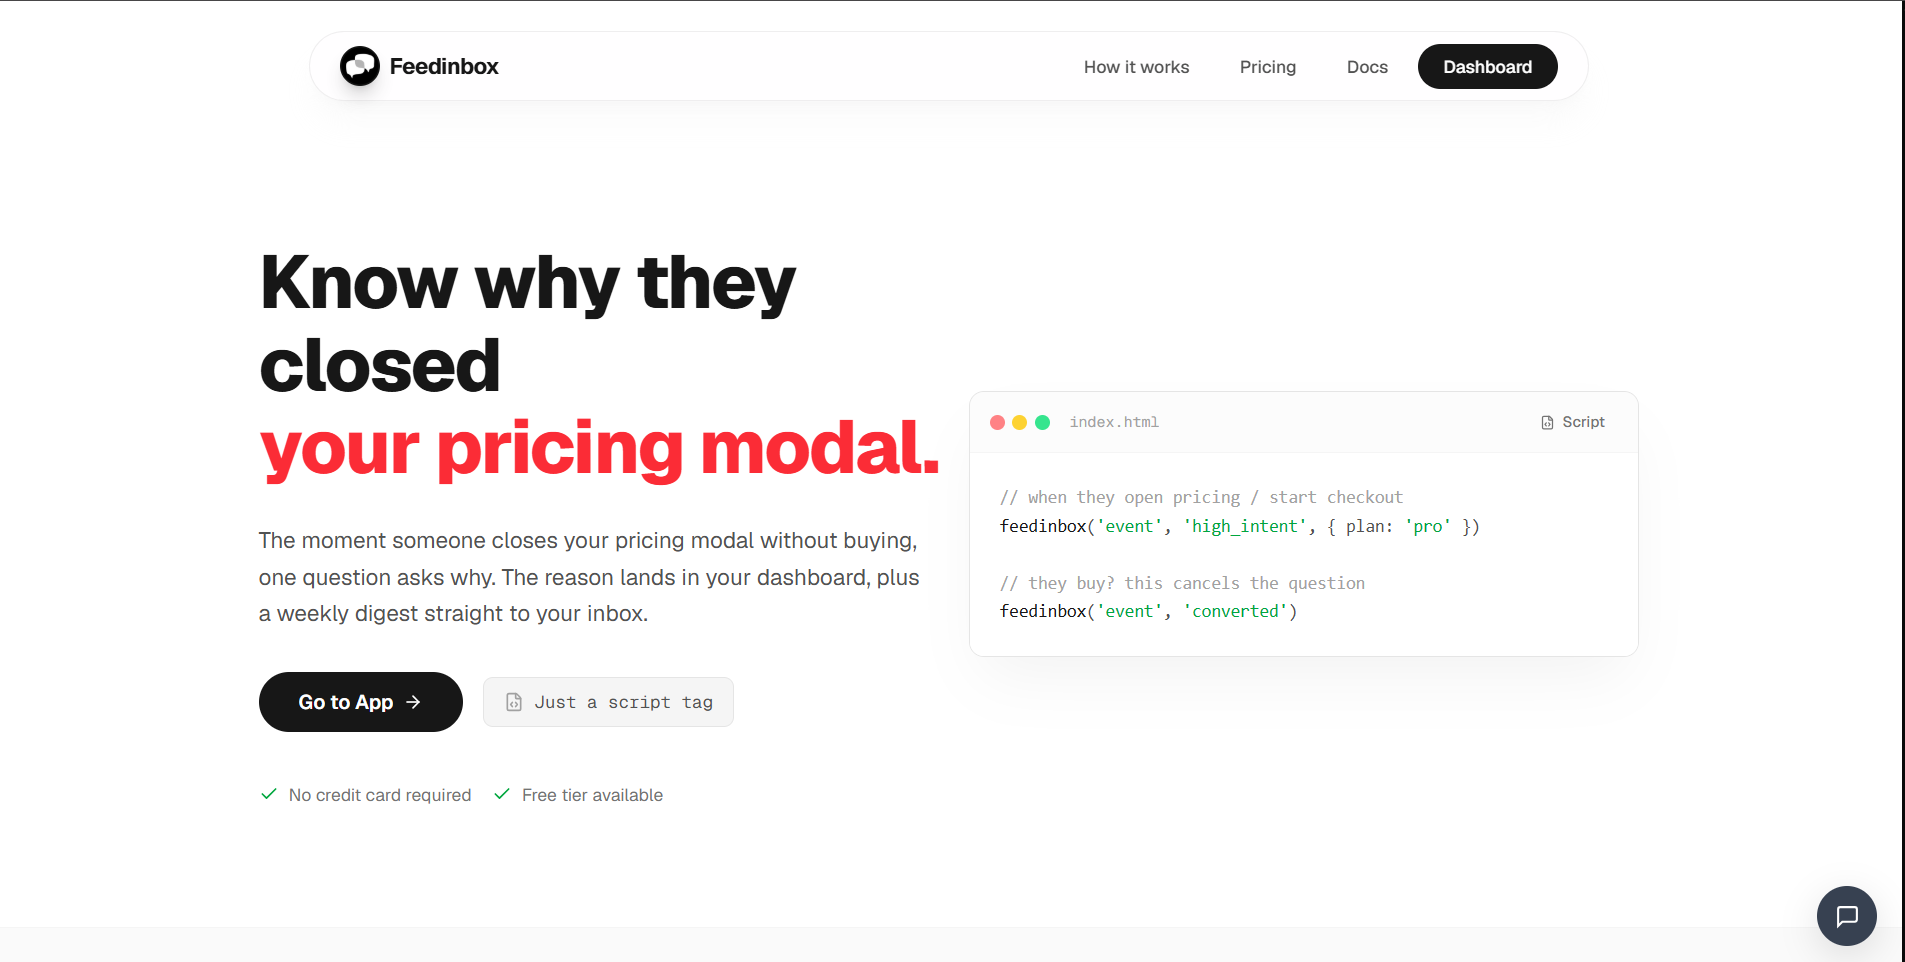
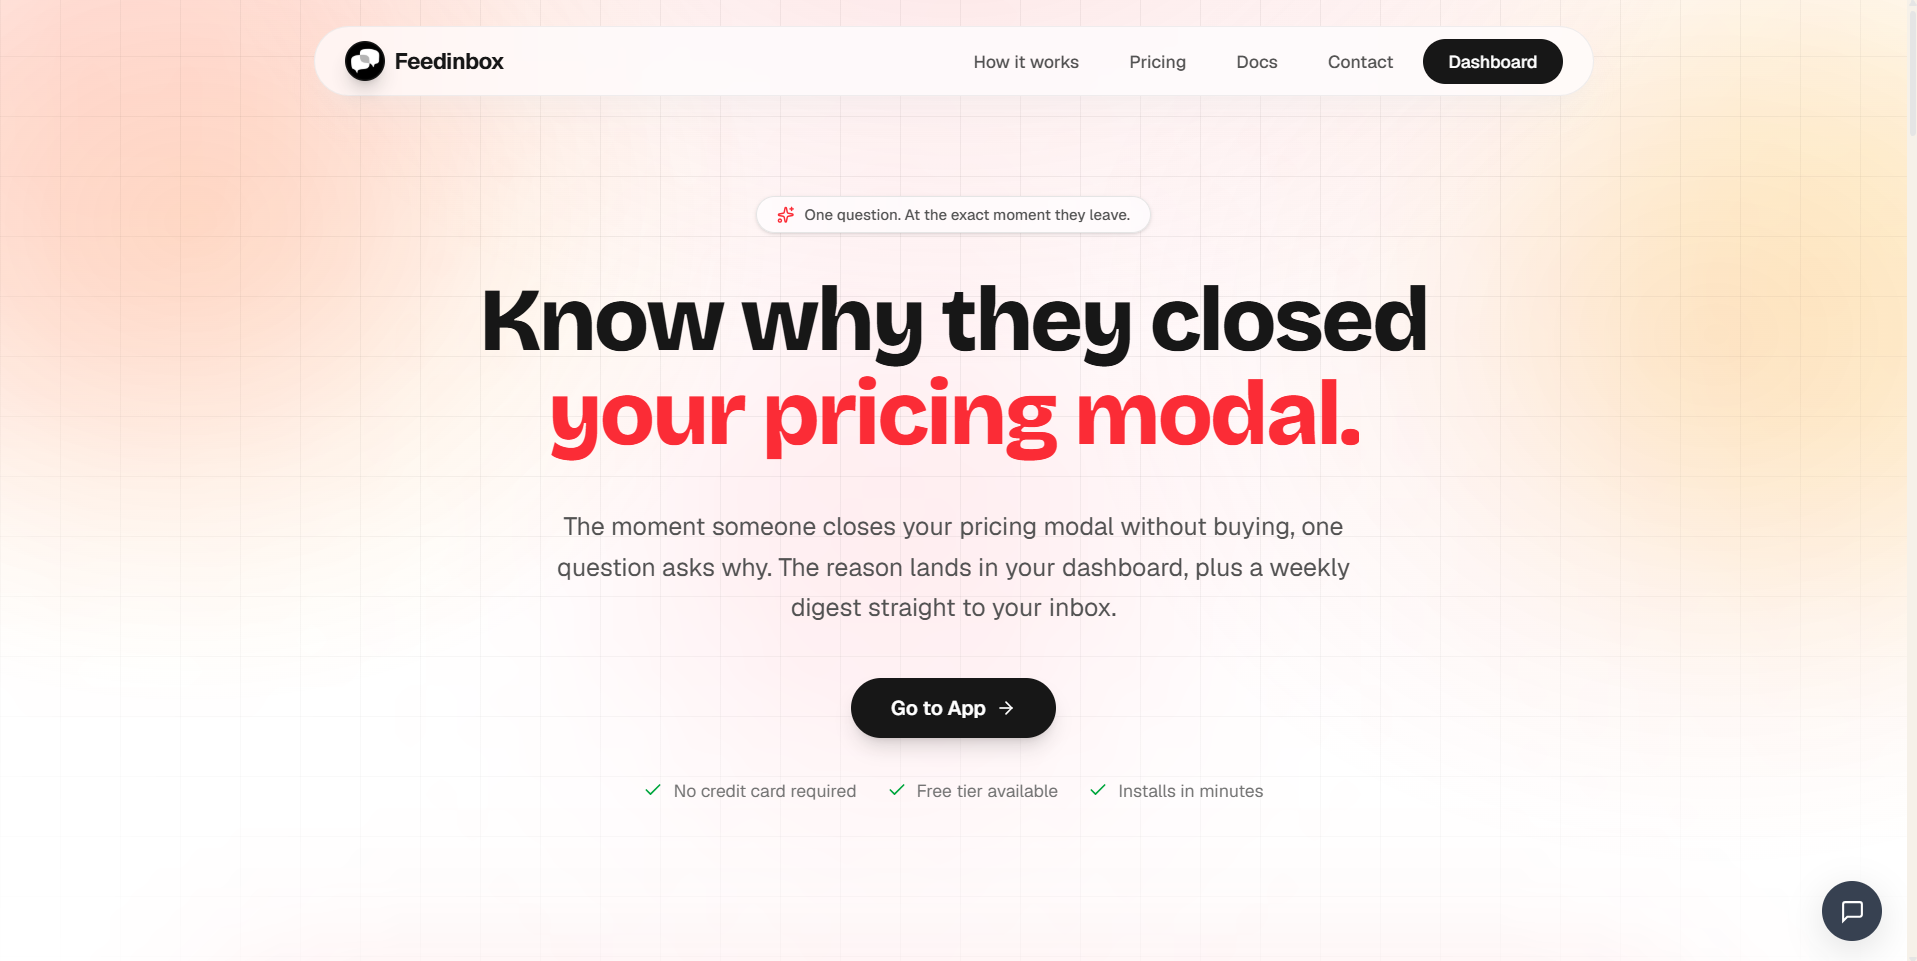
fix(seo): match OG metadata to the new share image
The replacement OG.png is 1917x961, not the 1200x630 the metadata still
declared, which leaves scrapers reserving the wrong aspect box.

Bump the ?v= cache-buster to v3 as well. Social scrapers key their
stored preview on the exact image URL, so without it X, LinkedIn, and
Facebook keep serving the previous artwork even though the file changed.

diff --git a/src/app/layout.tsx b/src/app/layout.tsx
@@ -57,9 +57,12 @@ export const metadata: Metadata = {
     description: "The moment someone closes your pricing modal without buying, one question asks why. The reason lands in your inbox. One script tag, free to start.",
     images: [
       {
-        url: "/OG.png?v=2",
-        width: 1200,
-        height: 630,
+        // ?v=N is a cache-buster for social scrapers, which key their cached
+        // preview on the exact image URL. Bump it whenever public/OG.png is
+        // replaced, or X/LinkedIn/Facebook keep serving the previous artwork.
+        url: "/OG.png?v=3",
+        width: 1917,
+        height: 961,
         alt: "Feedinbox - Feedback for Founders",
       },
     ],
@@ -68,7 +71,7 @@ export const metadata: Metadata = {
     card: "summary_large_image",
     title: "Feedinbox: Know why they closed your pricing modal",
     description: "The moment someone closes your pricing modal without buying, one question asks why. The reason lands in your inbox. One script tag, free to start.",
-    images: ["/OG.png?v=2"],
+    images: ["/OG.png?v=3"],
     creator: "@feedinbox",
   },
 
